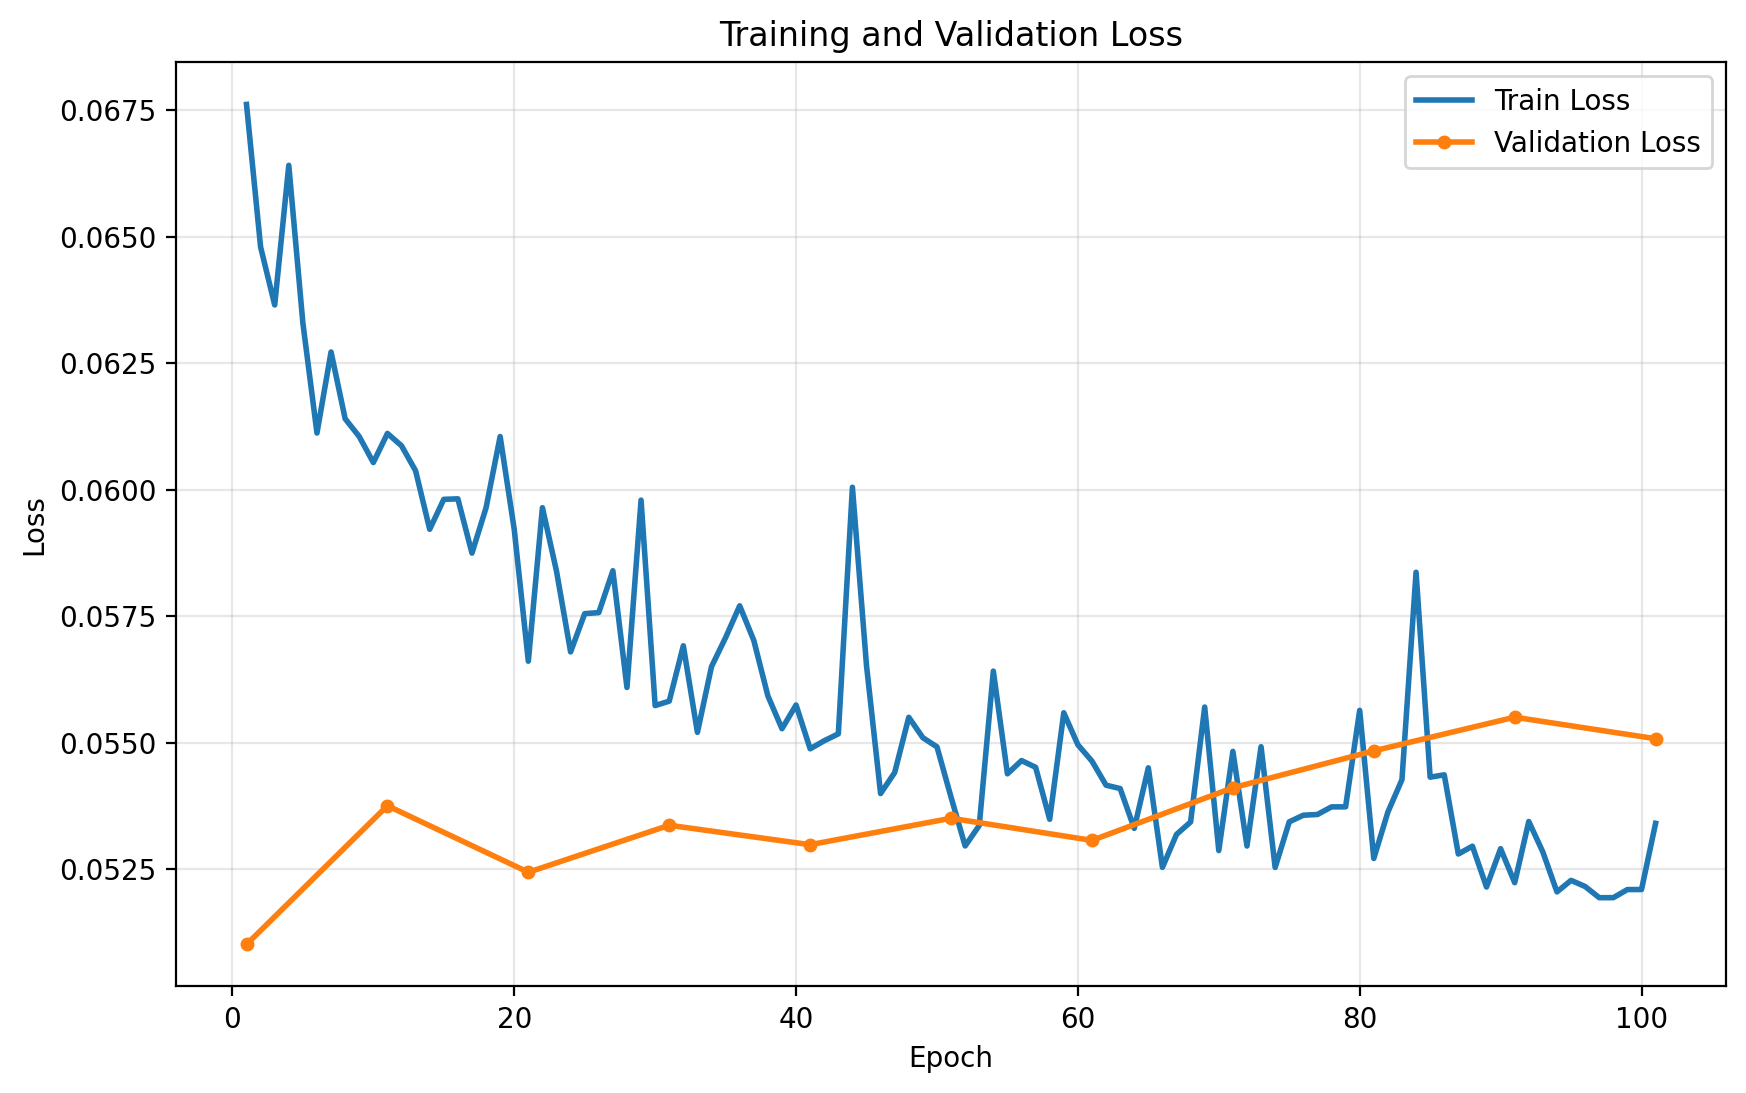
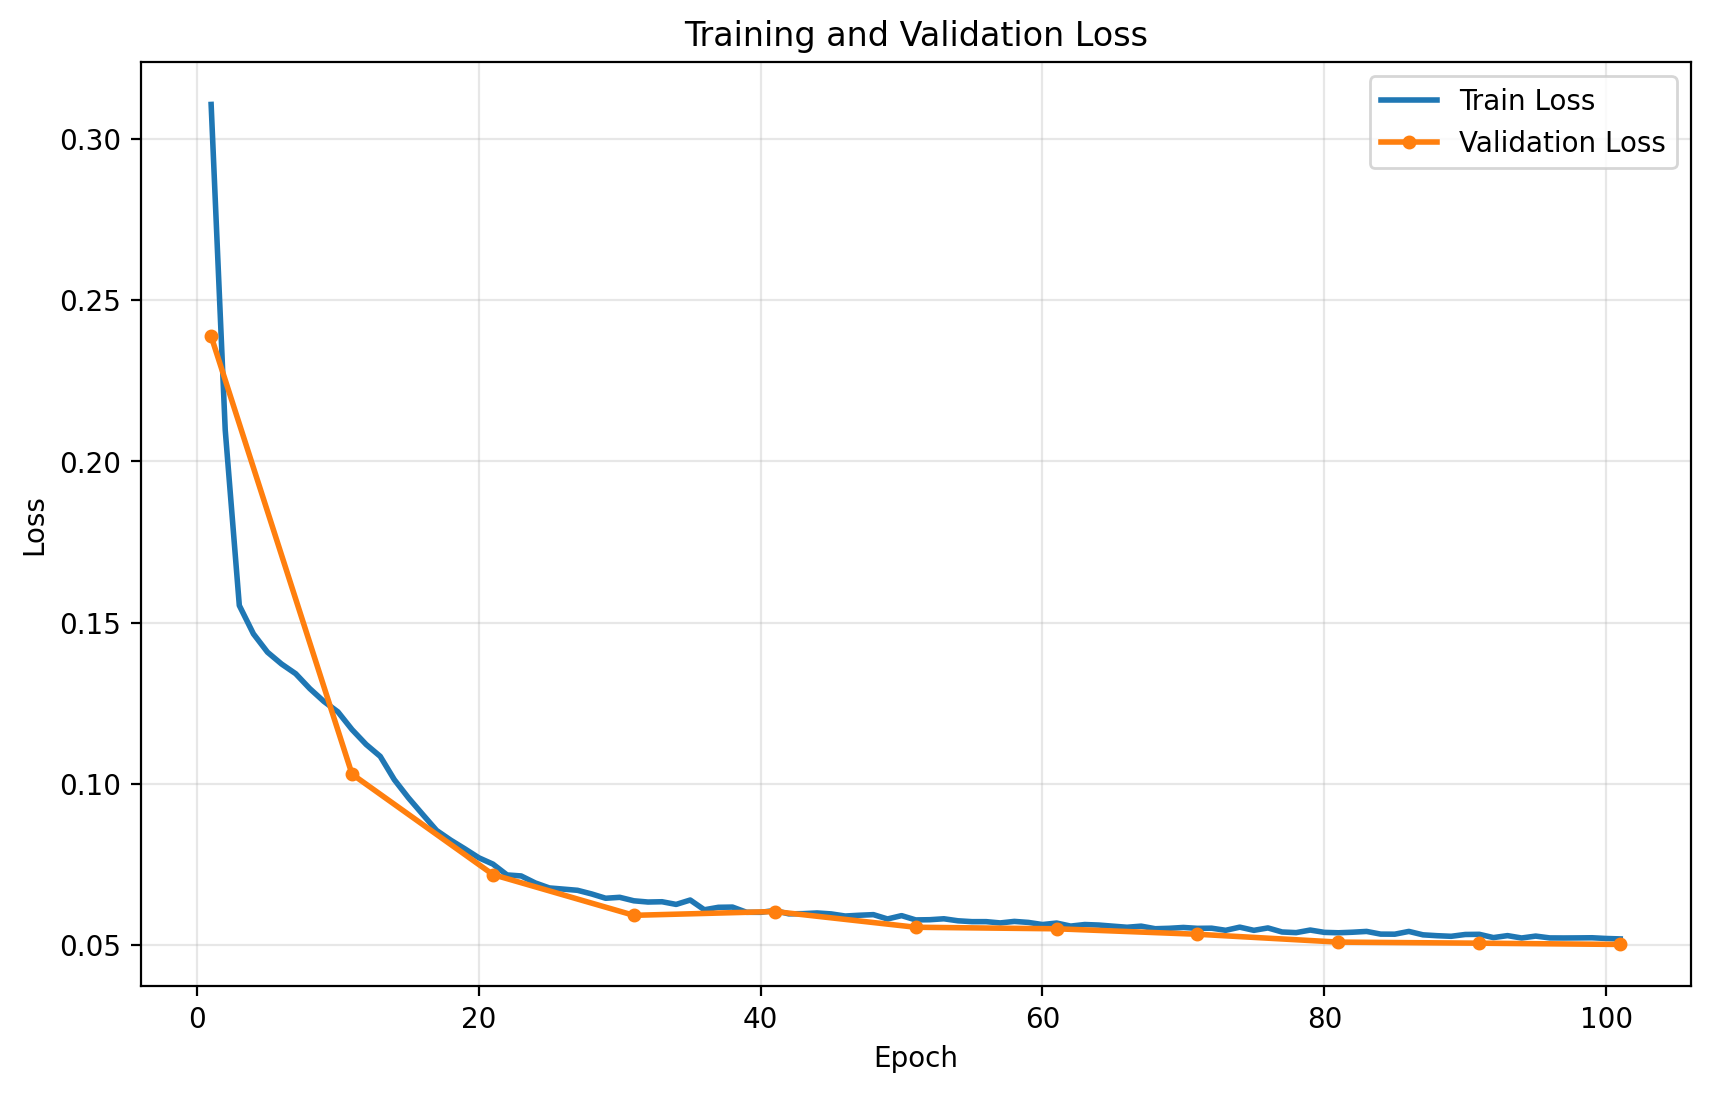
New updated rollout noise

diff --git a/Mojoco_Contact_Wind_Estimation/generate_node_states.py b/Mojoco_Contact_Wind_Estimation/generate_node_states.py
@@ -101,25 +101,48 @@ def quat_to_rotmat(q):
 
     return R
 
-#This function adds random walk noise to the positions of the nodes over time, which can be used to ensure the model 
-#is robust to small perturbations in the trajectories during training. The noise is added cumulatively over time, 
-#creating a random walk effect.
+# #This function adds random walk noise to the positions of the nodes over time, which can be used to ensure the model 
+# #is robust to small perturbations in the trajectories during training. The noise is added cumulatively over time, 
+# #creating a random walk effect.
+# def add_random_walk_noise(positions, noise_scale=3e-4):
+    
+#     #Creates a copy of the input positions to avoid modifying the original tensor, and initializes a 
+#     #noise tensor to accumulate the random walk noise over time.
+#     noisy_positions = positions.clone()
+#     T, N, _ = positions.shape
+#     noise = torch.zeros(N, 3, device=positions.device)
+
+#     #For each timestep, random noise is generated and added to the cumulative noise. 
+#     #This cumulative noise is then added to the positions for that timestep, creating a random walk effect over time.
+#     for t in range(T):
+#         step_noise = torch.randn(N, 3, device=positions.device) * noise_scale
+#         noise = noise + step_noise
+#         noisy_positions[t] = noisy_positions[t] + noise
+
+#     return noisy_positions
+
 def add_random_walk_noise(positions, noise_scale=3e-4):
     
-    #Creates a copy of the input positions to avoid modifying the original tensor, and initializes a 
-    #noise tensor to accumulate the random walk noise over time.
-    noisy = positions.clone()
-    T, N, _ = positions.shape
-    noise = torch.zeros(N, 3, device=positions.device)
+    velocities = positions[1:] - positions[:-1]
 
-    #For each timestep, random noise is generated and added to the cumulative noise. 
-    #This cumulative noise is then added to the positions for that timestep, creating a random walk effect over time.
+    T, N, _ = velocities.shape
+    noise = torch.zeros(T, N, 3, device=positions.device)
+
+
+
     for t in range(T):
         step_noise = torch.randn(N, 3, device=positions.device) * noise_scale
-        noise = noise + step_noise
-        noisy[t] = noisy[t] + noise
+        noise[t] = noise[t] + step_noise
+        velocities[t] = velocities[t] + noise[t]
+    
+    new_positions = torch.zeros_like(positions)
+    new_positions[0] = positions[0]
+    for t in range(1, T+1):
+        new_positions[t] = new_positions[t-1] + velocities[t-1]
 
-    return noisy
+    
+
+    return new_positions, noise
 
 #This function returns the full clean positions of the nodes for each timestep in the trajectory, as well as the edge indices 
 #and the body-centered node positions.

diff --git a/Mojoco_Contact_Wind_Estimation/train_gnn_multi_step.py b/Mojoco_Contact_Wind_Estimation/train_gnn_multi_step.py
@@ -195,7 +195,7 @@ def _build_timestep_samples(traj, Wall, h, noise_scale=3e-4):
     clean_positions = traj["positions"]
 
     #Adds random walk noise to the clean positions to create noisy positions,
-    noisy_positions = add_random_walk_noise(clean_positions, noise_scale=noise_scale)
+    noisy_positions, noise = add_random_walk_noise(clean_positions, noise_scale=noise_scale)
 
     edge_index = traj["edge_index"]
     sender = edge_index[0]
@@ -235,9 +235,10 @@ def _build_timestep_samples(traj, Wall, h, noise_scale=3e-4):
         e_attr = torch.cat([d, d_norm, dU, dU_norm], dim=1)
 
         #Computes the target accelerations for the current timestep using finite difference on the CLEAN positions.
-        accel = clean_positions[t + 1] - 2.0 * clean_positions[t] + clean_positions[t - 1]
+        accel_clean = clean_positions[t + 1] - 2.0 * clean_positions[t] + clean_positions[t - 1]
+        accel_corrected = accel_clean - noise[t-1]
 
-        samples.append(Data(x=x_node, edge_index=edge_index, edge_attr=e_attr, y=accel))
+        samples.append(Data(x=x_node, edge_index=edge_index, edge_attr=e_attr, y=accel_corrected))
 
     return samples
 
@@ -329,7 +330,7 @@ def rotate_batch(batch):
 #Will be recorded, and then the true positions of the next K steps in the chain will be recorded as the target.
 def _build_chain_samples(traj, Wall, h, K, noise_scale=3e-4):
     clean_positions = traj["positions"]
-    noisy_positions = add_random_walk_noise(clean_positions, noise_scale=noise_scale)
+    noisy_positions, noise = add_random_walk_noise(clean_positions, noise_scale=noise_scale)
 
     T = clean_positions.shape[0]
     samples = []
@@ -338,11 +339,13 @@ def _build_chain_samples(traj, Wall, h, K, noise_scale=3e-4):
         history_positions = noisy_positions[t-h : t+1]   # (h+1, N, 3) — model input
         clean_history     = clean_positions[t-h : t+1]   # (h+1, N, 3) — for true accel targets
         target_positions  = clean_positions[t+1 : t+1+K] # (K, N, 3) — clean
+        noise_at_input    = noise[t-1]
 
         samples.append({
             "history_positions": history_positions,
             "clean_history":     clean_history,
             "target_positions":  target_positions,
+            "noise_at_input":    noise_at_input,
             "edge_index":  traj["edge_index"],
             "nodes_body":  traj["nodes_body"],
             "wind_vector": traj["wind_vector"],
@@ -360,6 +363,7 @@ def _collate_chain_batch(chain_samples):
     targets       = torch.stack([s["target_positions"]  for s in chain_samples], dim=0)
     wind          = torch.stack([s["wind_vector"]       for s in chain_samples], dim=0)
     nodes_body    = torch.stack([s["nodes_body"]        for s in chain_samples], dim=0)
+    noise_at_input = torch.stack([s["noise_at_input"]   for s in chain_samples], dim=0)  # (B, N, 3)
 
     edge_index_single = chain_samples[0]["edge_index"]
     edge_index_batched = torch.cat([edge_index_single + b * N for b in range(B)], dim=1)
@@ -369,6 +373,7 @@ def _collate_chain_batch(chain_samples):
         "targets": targets, "wind": wind, "nodes_body": nodes_body,
         "edge_index": edge_index_batched,
         "B": B, "N": N, "E": E,
+        "noise_at_input": noise_at_input,
     }
 
 
@@ -420,6 +425,7 @@ def _unroll_chain_loss_accel(model, chain_batch, K, Wall, h,
     wind          = chain_batch["wind"]
     nodes_body    = chain_batch["nodes_body"]
     edge_index    = chain_batch["edge_index"]
+    noise_at_input = chain_batch["noise_at_input"]
     B, N = chain_batch["B"], chain_batch["N"]
 
     # Build one long clean trajectory: [clean[t-h], ..., clean[t], clean[t+1], ..., clean[t+K]]
@@ -445,6 +451,12 @@ def _unroll_chain_loss_accel(model, chain_batch, K, Wall, h,
                       - 2.0 * clean_full[:, h + k]
                       +       clean_full[:, h + k - 1])
         true_accel_norm = (true_accel.reshape(B * N, 3) - accel_mean) / accel_std
+
+        # Noise correction only at k=0 (inputs are noisy positions).
+        # For k >= 1, inputs are the model's own predictions and there's
+        # no random-walk noise to correct.
+        if k == 0:
+            true_accel = true_accel - noise_at_input
 
         step_losses.append(((pred_accel_norm - true_accel_norm) ** 2).mean())
 
@@ -495,6 +507,7 @@ def rotate_chain_batch(batch):
     batch["targets"]       = batch["targets"]       @ R.T
     batch["nodes_body"]    = batch["nodes_body"]    @ R.T
     batch["wind"]          = batch["wind"]          @ R.T
+    batch["noise_at_input"] = batch["noise_at_input"] @ R.T
     return batch
 
 
@@ -523,7 +536,8 @@ def train_gnn(Wall,
               epoch_checkpoint_interval=500,
               validation_check_interval=20,
               noise_scale=3e-4,
-              multistep = 1):
+              multistep = 1,
+              latent_dim = 128,):
     
     #Sets device to GPU if available, otherwise CPU
     device = torch.device("cuda" if torch.cuda.is_available() else "cpu")
@@ -575,7 +589,7 @@ def train_gnn(Wall,
     #Compute normalization stats from one clean pass (no noise) over training trajectories.
     clean_samples = []
     for traj in dataset_train:
-        clean_samples.extend(_build_timestep_samples(traj, Wall, h=h, noise_scale=0.0))
+        clean_samples.extend(_build_timestep_samples(traj, Wall, h=h, noise_scale=noise_scale))
 
     x_mean, x_std = _compute_node_stats(clean_samples)
     e_mean, e_std = _compute_edge_stats(clean_samples)
@@ -612,7 +626,7 @@ def train_gnn(Wall,
 
     #Initializes the GNS model, which consists of an encoder for the node features, an encoder for the edge features, 
     #multiple GNS layers for message passing,
-    model = GNSModel(node_dim, edge_dim, latent_dim=128, L=message_passing_layers, K = repeat_blocks).to(device)
+    model = GNSModel(node_dim, edge_dim, latent_dim=latent_dim, L=message_passing_layers, K = repeat_blocks).to(device)
 
     #Sets the optimizer to Adam, which will be used to update the model parameters during training based on the computed gradients.
     optimizer = optim.Adam(model.parameters(), lr=lr)

diff --git a/Mojoco_Contact_Wind_Estimation/run_multi_step.py b/Mojoco_Contact_Wind_Estimation/run_multi_step.py
@@ -58,7 +58,7 @@ Used_Num_train_trajectories = 1024
 script_dir = os.path.dirname(os.path.abspath(__file__))
 
 #This is the folder where the trajectory data is stored. 
-trajectory_folder = os.path.join(script_dir, "data/mojoco_trajectories_no_wind_2048")  # Folder where the trajectory .pt files are stored
+trajectory_folder = os.path.join(script_dir, "data/mojoco_pure_sliding_2048_no_wind")  # Folder where the trajectory .pt files are stored
 
 #Calculates the ranges of trajectory indices to use for training, validation, and testing.
 train_range = range(0, Used_Num_train_trajectories)
@@ -88,7 +88,7 @@ repeat_blocks = 1
 batch_size=128
 
 #This is the learning rate for training the GNN.
-learning_rate = 4e-5
+learning_rate = 4e-4
 
 #Noise scale for data augmentation. This is the standard deviation of the Gaussian noise added to the input positions
 # during training to help regularize the model and improve generalization.
@@ -106,7 +106,7 @@ traj_timesteps = 200
 pos_history = 3
 
 #This is the number of steps to rollout the model during training for the multi-step loss.
-multistep = 5
+multistep = 1
 
 #The paper says it had a batch size of 64 on 8 gpus so to simulate the same effective batch size on a single GPU,
 # we use gradient accumulation over 8 steps.
@@ -133,7 +133,7 @@ validation_check_interval = 10
 #Meshed cube shows the initial node positions and edges. 
 #Augmentation shows the effect of random rotations on the trajectories. 
 #Rollout shows the model's predictions when rolled out over a trajectory, with shape matching to the true positions at each step.
-display_loss_curves = True
+display_loss_curves = False
 display_stats = False
 show_meshed_cube = False
 show_augmentation = False
@@ -154,7 +154,7 @@ Train = False
 
 #Model save/load settings.
 # save_model_path = os.path.join(script_dir, f"models/mojoco_{Used_Num_train_trajectories}_train{extra_name}/{Used_Num_train_trajectories}_train_gns_model.pt")
-save_model_path = os.path.join(script_dir, f"models/mojoco_no_wind_1024_train_Finetuned/{Used_Num_train_trajectories}_train_gns_model.pt")
+save_model_path = os.path.join(script_dir, f"models/mojoco_pure_sliding_no_wind_fixed_noise/{Used_Num_train_trajectories}_train_gns_model.pt")
 
 
 #Set False when resuming from an existing checkpoint to keep dataset and normalization consistent.
@@ -162,19 +162,19 @@ rebuild_datasets = True
 
 #Set this to a checkpoint file (for example: models/gns_model_epoch500.pt) to resume training.
 resume_training_checkpoint_path = None
-# resume_training_checkpoint_path = os.path.join(script_dir, f"models/mojoco_no_wind_sliding/{Used_Num_train_trajectories}_train_gns_model_best_model.pt")
+# resume_training_checkpoint_path = os.path.join(script_dir, f"models/mojoco_no_wind_1024_train_Finetuned_wind_singlestep/{Used_Num_train_trajectories}_train_gns_model_epoch900.pt")
 
 #This will just load the model weights from the model location, but will not load the optimizer state or training epoch information.
 #This is useful if we want to use the initialization from a pretrained model, but we want to train it with different training 
 #parameters.
-# copy_weights_only_path = None
-copy_weights_only_path = os.path.join(script_dir, f"models/mojoco_no_wind_1024_train/{Used_Num_train_trajectories}_train_gns_model_best_model.pt")
+copy_weights_only_path = None
+# copy_weights_only_path = os.path.join(script_dir, f"models/mojoco_no_wind_1024_train_Finetuned_wind_singlestep/{Used_Num_train_trajectories}_train_gns_model_best_model.pt")
 
 
 #Set this to a checkpoint file or model file to load for inference.
 #If None, the script will load the final model saved after training.
 # inference_model_path = None
-inference_model_path = os.path.join(script_dir, f"models/mojoco_no_wind_1024_train_Finetuned/{Used_Num_train_trajectories}_train_gns_model_best_model.pt")
+inference_model_path = os.path.join(script_dir, f"models/mojoco_pure_sliding_no_wind_fixed_noise/{Used_Num_train_trajectories}_train_gns_model_best_model.pt")
 
 # inference_model_path = os.path.join(script_dir, f"models/mojoco_{Used_Num_train_trajectories}_train{extra_name}/{Used_Num_train_trajectories}_train_gns_model_best_model.pt")
 
@@ -217,7 +217,8 @@ if Train:
         epoch_checkpoint_interval=epoch_checkpoint_interval,
         validation_check_interval = validation_check_interval,
         noise_scale = noise_scale,
-        multistep=multistep
+        multistep=multistep,
+        latent_dim=128
     )
 
 
@@ -375,6 +376,7 @@ if show_rollout:
         h = pos_history
         
     )  
+    evaluate_metrics.compute_metrics(pred_positions, true_positions, nodes_body)
     display_results.animate_cube(
         pred_positions,
         true_positions,

diff --git a/Mojoco_Contact_Wind_Estimation/capture_mojoco_traj.py b/Mojoco_Contact_Wind_Estimation/capture_mojoco_traj.py
@@ -141,7 +141,7 @@ def generate_sliding_params(mass, wind_range, sliding_speed_range, angvel_z_rang
 if __name__ == "__main__":
     script_dir = os.path.dirname(os.path.abspath(__file__))
     
-    save_dir = os.path.join(script_dir, "data", "mojoco_trajectories_wind_2048")
+    save_dir = os.path.join(script_dir, "data", "mojoco_pure_sliding_2048_no_wind")
     os.makedirs(save_dir, exist_ok=True)
 
     model = mujoco.MjModel.from_xml_path(os.path.join(script_dir, "cube.xml"))
@@ -153,10 +153,10 @@ if __name__ == "__main__":
     visualize_first = False
 
     #What percentage of the total trajectories should be sliding-only (0.0 to 1.0)
-    sliding_percentage = 0.2
+    sliding_percentage = 1
 
     #----- Shared parameters -----
-    wind_range = (2.5, 2.5)
+    wind_range = (0, 0)
     mass = 0.37
 
     #----- Toss-specific parameters -----
@@ -167,7 +167,7 @@ if __name__ == "__main__":
     toss_angvel_range = (-3, 3)
 
     #----- Sliding-specific parameters -----
-    sliding_speed_range = (0.0, 1.5)
+    sliding_speed_range = (0.0, 2.0)
     sliding_angvel_z_range = (-3, 3)
 
     #----- Build the schedule of which indices are sliding vs toss -----

diff --git a/Mojoco_Contact_Wind_Estimation/evaluate_metrics.py b/Mojoco_Contact_Wind_Estimation/evaluate_metrics.py
@@ -85,6 +85,12 @@ def compute_metrics(pred_positions, true_positions, rest_positions):
 
     #Returns all of the metrics averaged across the trajectory, 
     #as well as the per-timestep values for each metric for further analysis if desired.
+    # print("Center error for whole trajectory:")
+    # print(center_errors)
+    # print("Angle error (degrees) for whole trajectory:")
+    # print(torch.rad2deg(angle_errors))
+    # print("Floor penetration for whole trajectory:")
+    # print(floor_penetrations)
     return {
         'center_error':            center_errors.mean().item(),
         'angle_error_deg':         torch.rad2deg(angle_errors).mean().item(),